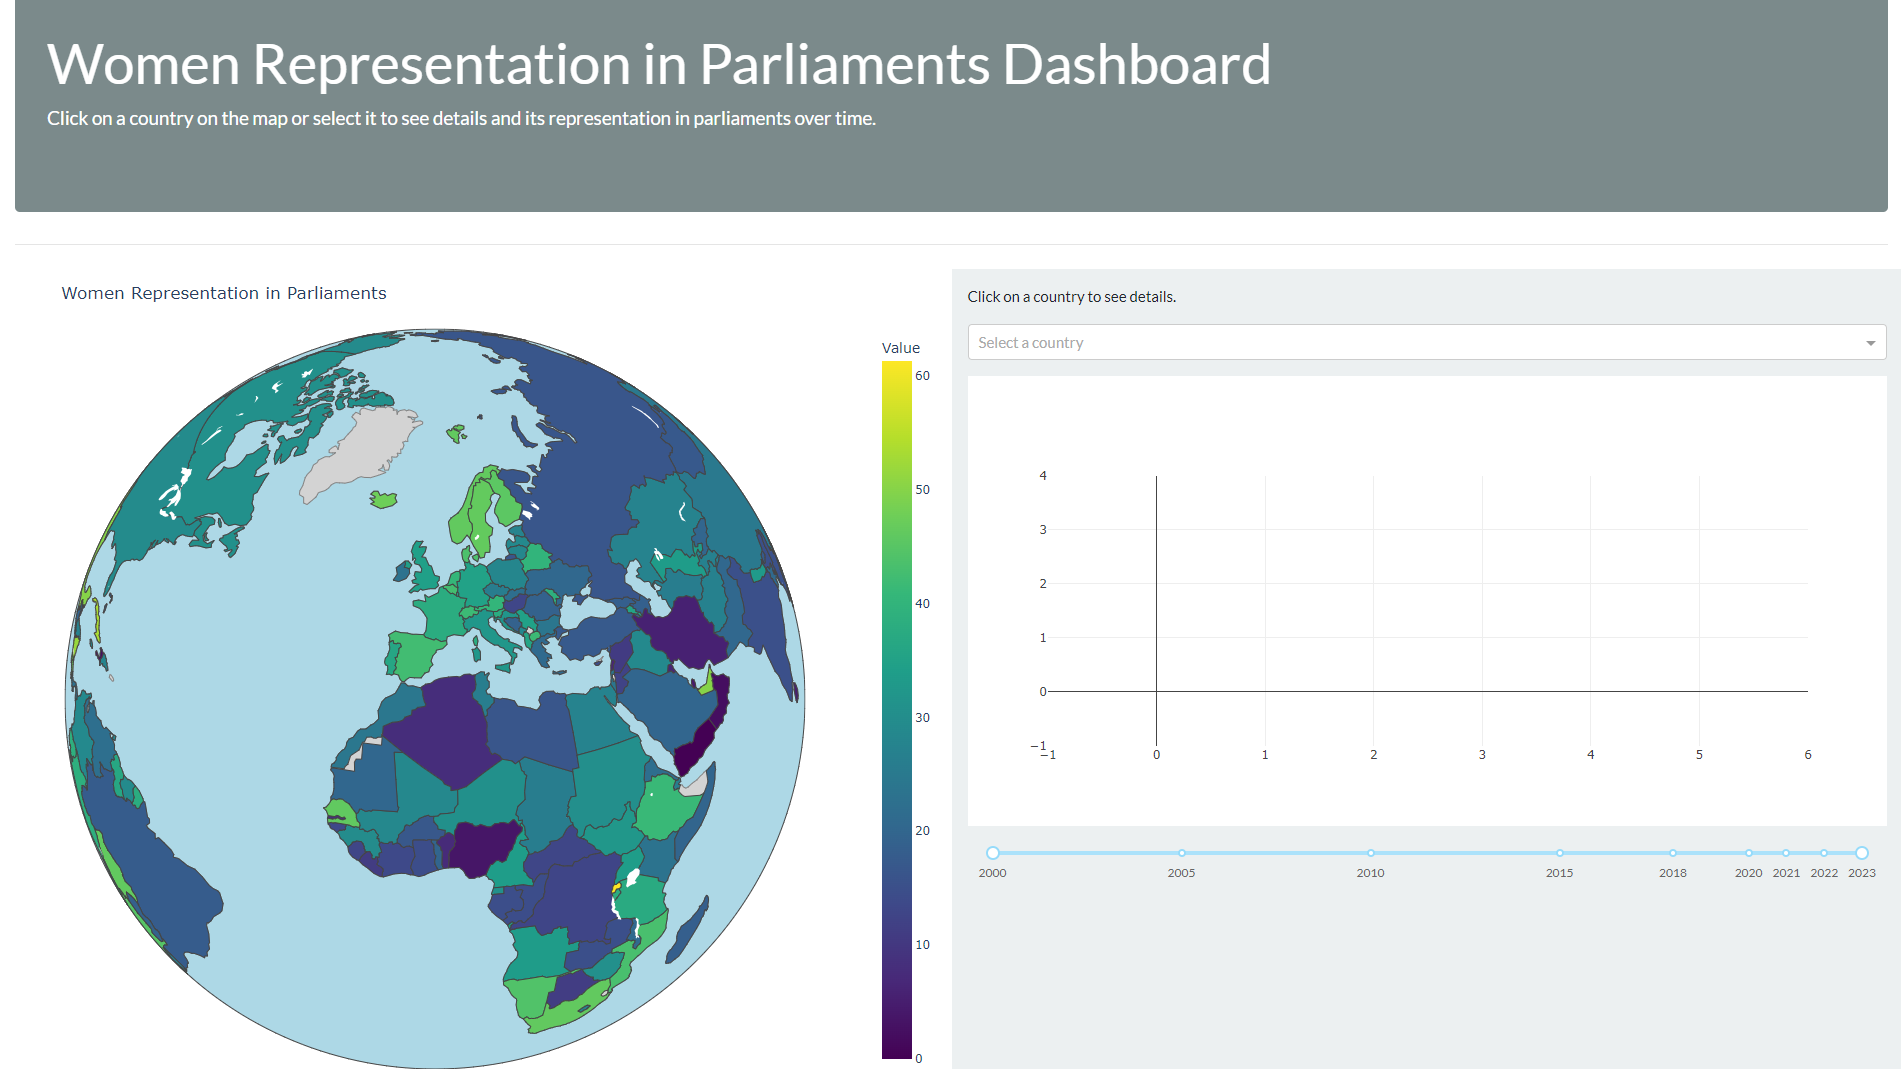
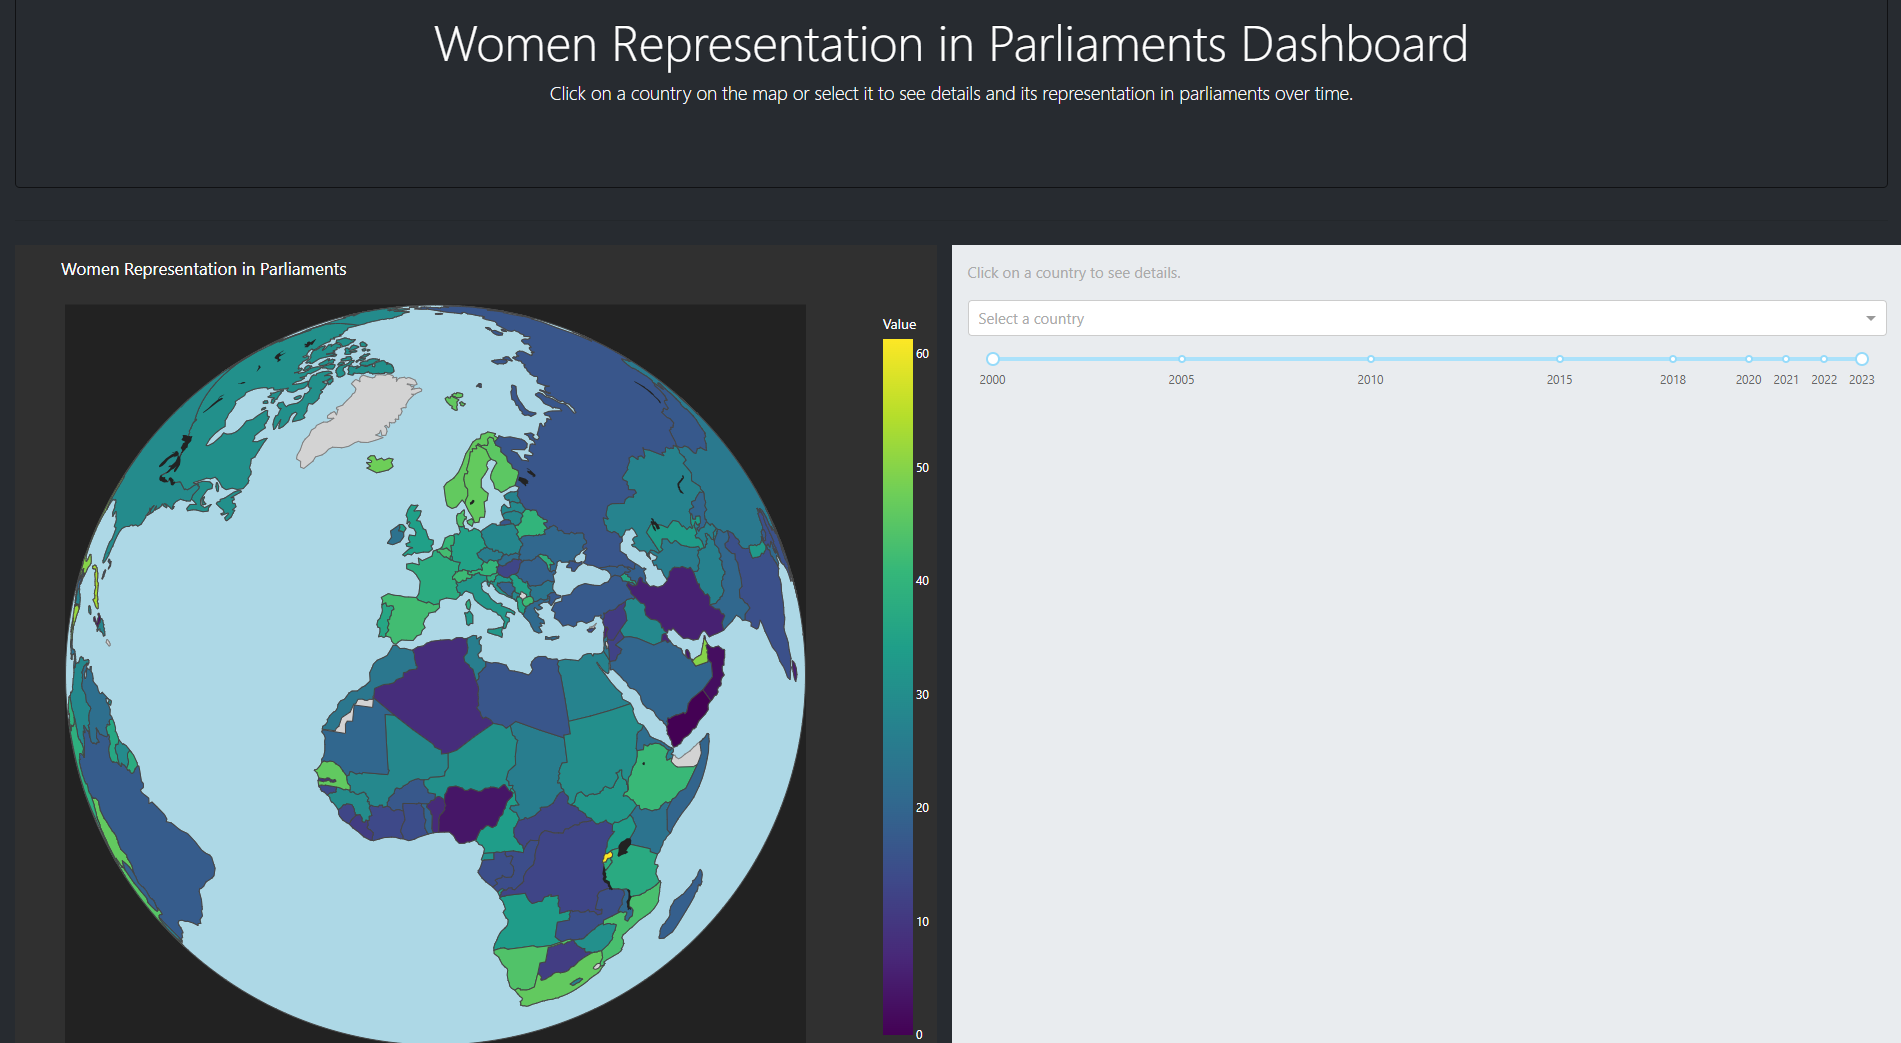
add images and update README.md

diff --git a/README.md b/README.md
@@ -25,8 +25,6 @@ The data used in this dashboard is sourced from the United Nations Statistics Di
 
 ```
 women-parliament-representation-dashboard/
-│────assets/
-├──── bootstrap.css
 ├──── app.py
 │──── requirements.txt
 │──── data_preparation.ipynb
@@ -43,7 +41,6 @@ women-parliament-representation-dashboard/
 └── .gitattributes
 
 ```
-- **assets/**: Stores the slate theme from [Bootswatch](https://bootswatch.com/).
 - **app.py**: Python script for running the Dash application.
 - **requirements.txt**: List of Python dependencies required for the application.
 - **data/**: Contains the datasets used in the dashboard.
